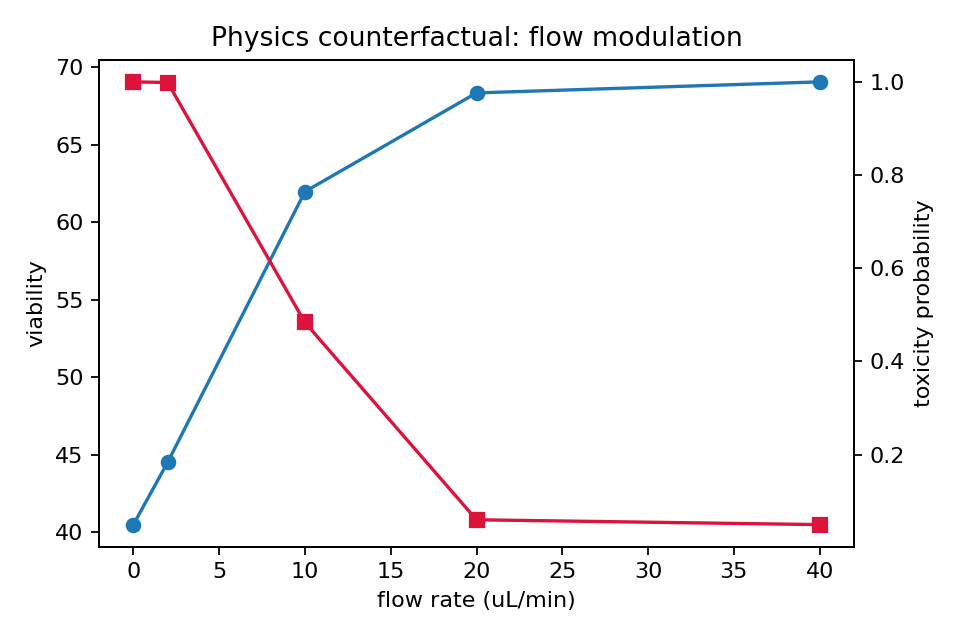
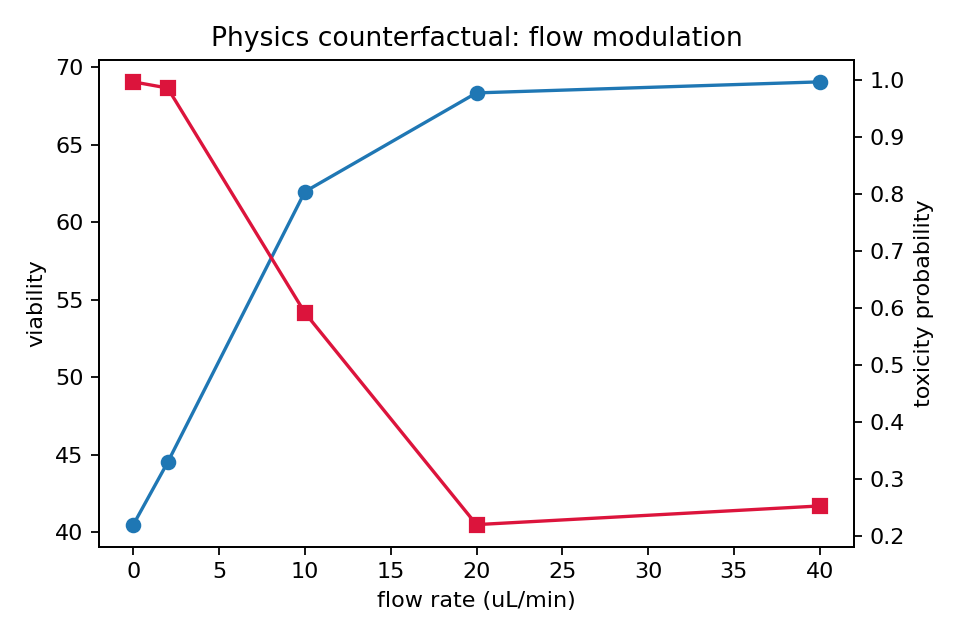
Select additive fusion for unseen-compound robustness

diff --git a/outputs/demo/index.html b/outputs/demo/index.html
@@ -1,6 +1,6 @@
 <!doctype html><meta charset='utf-8'><title>NeuroChip Twin demo</title>
     <h1>NeuroChip Twin</h1><p>Self-contained synthetic organ-on-chip proxy benchmark; no clinical claim.</p>
-    <p>Static ROC-AUC: <b>0.567</b> · Temporal: <b>0.968</b> · Multimodal physics: <b>0.990</b></p>
+    <p>Static ROC-AUC: <b>0.567</b> · Temporal: <b>0.968</b> · Primary additive multimodal: <b>0.990</b> · Interaction ablation: <b>0.990</b></p>
     <img src='demo_overview.png' style='max-width:100%'><img src='confusion_matrix.png' style='max-width:420px'><img src='calibration_curve.png' style='max-width:420px'><img src='counterfactual_flow.png' style='max-width:620px'>
     <h2>Interpretation</h2><pre>{
   "count_ratio": 0.9286,
@@ -13,10 +13,10 @@
   "area_slope": -2.5221,
   "intensity_slope": -0.0183
 }</pre>
-    <h2>Physics counterfactual</h2><pre> flow_rate_uL_min  wall_shear_proxy  predicted_toxicity_probability  predicted_viability
-              0.0              0.00                        0.999838            40.487884
-              2.0              0.36                        0.998448            44.510496
-             10.0              1.80                        0.483640            61.983594
-             20.0              3.60                        0.060330            68.358357
-             40.0              7.20                        0.049964            69.070649</pre>
+    <h2>Physics counterfactual</h2><pre> flow_rate_uL_min  wall_shear_proxy  predicted_toxicity_probability  interaction_ablation_probability  predicted_viability
+              0.0              0.00                        0.996957                          0.999838            40.487884
+              2.0              0.36                        0.986122                          0.998448            44.510496
+             10.0              1.80                        0.591260                          0.483640            61.983594
+             20.0              3.60                        0.219270                          0.060330            68.358357
+             40.0              7.20                        0.252057                          0.049964            69.070649</pre>
     <p>Uncertainty is a transparent distance-from-threshold proxy and must not be read as a clinical confidence interval.</p>

diff --git a/src/neurochip_twin.py b/src/neurochip_twin.py
@@ -460,6 +460,7 @@ def run(
     multimodal = Pipeline([("scale", StandardScaler()), ("model", LogisticRegression(max_iter=2000, random_state=seed, C=0.7))])
     multimodal.fit(fused_X[train_idx], y[train_idx])
     p_multimodal = multimodal.predict_proba(fused_X[test_idx])[:, 1]
+    primary_model = "multimodal_no_interactions"
     # The interaction block is intentionally wide (p > n for small studies).
     # A stronger penalty plus LSQR avoids ill-conditioned normal-equation
     # solutions that can explode on otherwise valid random seeds.
@@ -495,7 +496,8 @@ def run(
         counterfactual_rows.append({
             "flow_rate_uL_min": flow,
             "wall_shear_proxy": 0.18 * flow,
-            "predicted_toxicity_probability": float(multimodal.predict_proba(cf_fused)[0, 1]),
+            "predicted_toxicity_probability": float(no_interaction_model.predict_proba(np.c_[cf_temporal, cf_physics])[0, 1]),
+            "interaction_ablation_probability": float(multimodal.predict_proba(cf_fused)[0, 1]),
             "predicted_viability": float(
                 np.clip(
                     viability_model.predict(cf_regression)[0],
@@ -513,6 +515,7 @@ def run(
         "test_size": int(len(test_idx)),
         "split_mode": split_mode,
         "scenario": scenario,
+        "primary_model": primary_model,
         "group_count": group_count,
         "data_kind": "synthetic_organ_on_chip_proxy",
         "baseline": metrics(y[test_idx], p_base),
@@ -530,7 +533,15 @@ def run(
         "uncertainty_proxy": "distance from 0.5; not a clinical confidence interval",
     }
     (out_dir / "metrics.json").write_text(json.dumps(result, indent=2), encoding="utf-8")
-    pred = pd.DataFrame({"index": test_idx, "dose": doses[test_idx], "label": y[test_idx], "baseline_probability": p_base, "temporal_probability": p_temporal})
+    pred = pd.DataFrame({
+        "index": test_idx,
+        "dose": doses[test_idx],
+        "label": y[test_idx],
+        "baseline_probability": p_base,
+        "temporal_probability": p_temporal,
+        "multimodal_no_interactions_probability": p_no_interaction,
+        "multimodal_interaction_probability": p_multimodal,
+    })
     pred.to_csv(out_dir / "predictions.csv", index=False)
     pd.concat([t.assign(sequence=i) for i, t in enumerate(tables)], ignore_index=True).to_csv(out_dir / "phenotype_table.csv", index=False)
 
@@ -567,7 +578,7 @@ def run(
 
     html = f"""<!doctype html><meta charset='utf-8'><title>NeuroChip Twin demo</title>
     <h1>NeuroChip Twin</h1><p>Self-contained synthetic organ-on-chip proxy benchmark; no clinical claim.</p>
-    <p>Static ROC-AUC: <b>{result['baseline']['roc_auc']:.3f}</b> · Temporal: <b>{result['temporal_reservoir']['roc_auc']:.3f}</b> · Multimodal physics: <b>{result['multimodal_physics']['roc_auc']:.3f}</b></p>
+    <p>Static ROC-AUC: <b>{result['baseline']['roc_auc']:.3f}</b> · Temporal: <b>{result['temporal_reservoir']['roc_auc']:.3f}</b> · Primary additive multimodal: <b>{result[primary_model]['roc_auc']:.3f}</b> · Interaction ablation: <b>{result['multimodal_physics']['roc_auc']:.3f}</b></p>
     <img src='demo_overview.png' style='max-width:100%'><img src='confusion_matrix.png' style='max-width:420px'><img src='calibration_curve.png' style='max-width:420px'><img src='counterfactual_flow.png' style='max-width:620px'>
     <h2>Interpretation</h2><pre>{json.dumps(dict(zip(FEATURE_NAMES, demo_features.round(4))), indent=2)}</pre>
     <h2>Physics counterfactual</h2><pre>{counterfactual.to_string(index=False)}</pre>

diff --git a/tests/test_pipeline.py b/tests/test_pipeline.py
@@ -34,10 +34,12 @@ def test_end_to_end_outputs(tmp_path: Path):
     assert result["test_size"] == 12
     assert 0.0 <= result["temporal_reservoir"]["roc_auc"] <= 1.0
     assert 0.0 <= result["multimodal_physics"]["roc_auc"] <= 1.0
+    assert result["primary_model"] == "multimodal_no_interactions"
     assert "r2" in result["multimodal_viability"]
     assert (tmp_path / "counterfactual_flow.csv").exists()
     assert (tmp_path / "metrics.json").exists()
     assert (tmp_path / "index.html").exists()
+    assert "multimodal_no_interactions_probability" in (tmp_path / "predictions.csv").read_text(encoding="utf-8")
 
 
 def test_multi_seed_validation_writes_audit_report(tmp_path: Path):

diff --git a/scripts/make_demo_video.py b/scripts/make_demo_video.py
@@ -19,7 +19,7 @@ def main() -> None:
     out = Path("outputs/demo/neurochip_twin_demo.mp4")
     out.parent.mkdir(parents=True, exist_ok=True)
     metrics = json.loads((out.parent / "metrics.json").read_text(encoding="utf-8"))
-    calibration = metrics["multimodal_physics"]
+    calibration = metrics[metrics.get("primary_model", "multimodal_physics")]
     seq = generate_sequence(2026, 0.82, frames=36, scenario="compound_specific")
     writer = cv2.VideoWriter(str(out), cv2.VideoWriter_fourcc(*"mp4v"), 8, (960, 600))
     for i, frame in enumerate(seq.frames):

diff --git a/docs/KAGGLE_WRITEUP.md b/docs/KAGGLE_WRITEUP.md
@@ -14,7 +14,7 @@ Attach `outputs/demo/neurochip_twin_demo.mp4` (maximum five minutes) or a public
 
 NeuroChip Twin is an interpretable temporal digital-twin prototype for organ-on-chip microscopy. It converts a time-lapse into cell tracks and phenotype trajectories, then fuses them with dose, flow, shear and clearance context using a compact physics-informed readout. Separate heads estimate toxicity, viability and IC50, while a flow counterfactual shows how the predicted response changes under altered perfusion. The output includes measurable reasons behind the prediction: cell-count change, morphology, intensity, motion, track persistence and exposure context. Static and temporal baselines are included as ablations, so the value of dynamics and multimodal context is testable rather than assumed.
 
-On the repository's deterministic compound-specific synthetic organ-on-chip-like benchmark (seed 42, 180 sequences, 25% held out), the static baseline ROC-AUC is 0.567, the physics-only baseline is 0.692, the temporal model is 0.968, and the multimodal physics-informed model is 0.990 with F1 0.958. The auxiliary heads obtain viability R² 0.957 and IC50 R² 0.957. A ten-seed audit gives multimodal ROC-AUC 0.987, F1 0.936, viability R² 0.902 and IC50 R² 0.908; the grouped audit gives multimodal ROC-AUC 0.983 and F1 0.944. These values are a synthetic stress test, not clinical performance. The project intentionally exposes this limitation and provides the data contract and validation plan for authorized public microscopy and organ-on-chip data.
+On the repository's deterministic compound-specific synthetic organ-on-chip-like benchmark (seed 42, 180 sequences, 25% held out), the static baseline ROC-AUC is 0.567, the physics-only baseline is 0.692, the temporal model is 0.968, and the primary additive multimodal context readout is 0.990 with F1 0.958. The explicit physics-interaction readout is retained as an ablation with the same seed-42 score. The auxiliary heads obtain viability R² 0.957 and IC50 R² 0.957. A ten-seed audit gives multimodal ROC-AUC 0.987, F1 0.936, viability R² 0.902 and IC50 R² 0.908; the grouped audit gives multimodal ROC-AUC 0.983 and F1 0.944. These values are a synthetic stress test, not clinical performance. The project intentionally exposes this limitation and provides the data contract and validation plan for authorized public microscopy and organ-on-chip data.
 
 The probability readout is audited as well as ranked: seed 42 gives a multimodal Brier score of 0.041 and ten-bin ECE of 0.064; across ten seeds these average 0.053 and 0.069, while the grouped audit averages 0.048 and 0.071. These are calibration diagnostics for the synthetic proxy, not clinical confidence intervals.
 

diff --git a/docs/TECHNICAL_REPORT.md b/docs/TECHNICAL_REPORT.md
@@ -67,7 +67,7 @@ For frame-level phenotype vector `x_t`, the fixed reservoir state is:
 
 Each sequence carries dose, flow rate, a documented wall-shear proxy, clearance factor, effective dose, and three seeded compound-context descriptors. The final feature vector concatenates temporal phenotype, reservoir state and context covariates, then adds explicit products between phenotype/reservoir features and shear, clearance, effective dose, and compound context. This is a compact, interpretable analogue of multimodal cross-attention: the effect of a phenotype can change with exposure conditions and compound context without requiring a large opaque model.
 
-The classifier is accompanied by Ridge regression heads for end-of-sequence viability and IC50. The synthetic generator applies effective exposure attenuation under flow and a high-shear penalty; both are labeled as proxies rather than biological laws.
+The additive multimodal readout is the primary reported classifier because it is more stable in the unseen-compound holdout; the explicit interaction readout remains a transparent ablation. Both are accompanied by Ridge regression heads for end-of-sequence viability and IC50. The synthetic generator applies effective exposure attenuation under flow and a high-shear penalty; both are labeled as proxies rather than biological laws.
 
 ### 4.6 Uncertainty and auditability
 
@@ -82,6 +82,8 @@ python -m src.neurochip_twin --out outputs/demo --seed 42 --samples 180 --scenar
 ```
 
 The fixed split has 135 training and 45 held-out sequences. The current generated result is:
+
+The additive multimodal context readout is the primary model shown in the demo; the interaction readout remains an explicit ablation. They tie on this seed, while the compound-holdout audit below favors the additive variant.
 
 | Model | ROC-AUC | Average precision | Balanced accuracy | Accuracy | F1 |
 |---|---:|---:|---:|---:|---:|

diff --git a/README.md b/README.md
@@ -47,7 +47,7 @@ from a deep workspace directory without silently changing the evaluation.
 - Input: grayscale microscopy-like time series with one or more chips and treatment doses.
 - Cell analysis: denoising, threshold segmentation, connected components, centroid tracking.
 - Features: count, area, intensity, elongation, motion, persistence, and temporal slopes.
-- Model: static baseline vs. fixed-reservoir temporal classifier vs. a multimodal physics-informed readout.
+- Model: static baseline vs. fixed-reservoir temporal classifier vs. a multimodal context readout; the additive readout is primary for unseen-compound robustness and explicit interactions remain an ablation.
 - Multimodal fusion: morphology + temporal reservoir + dose/flow/shear/clearance + compound context, with explicit cross-modal interactions.
 - Outputs: toxicity probability, viability and IC50 regression, held-out metrics, and a flow counterfactual.
 
